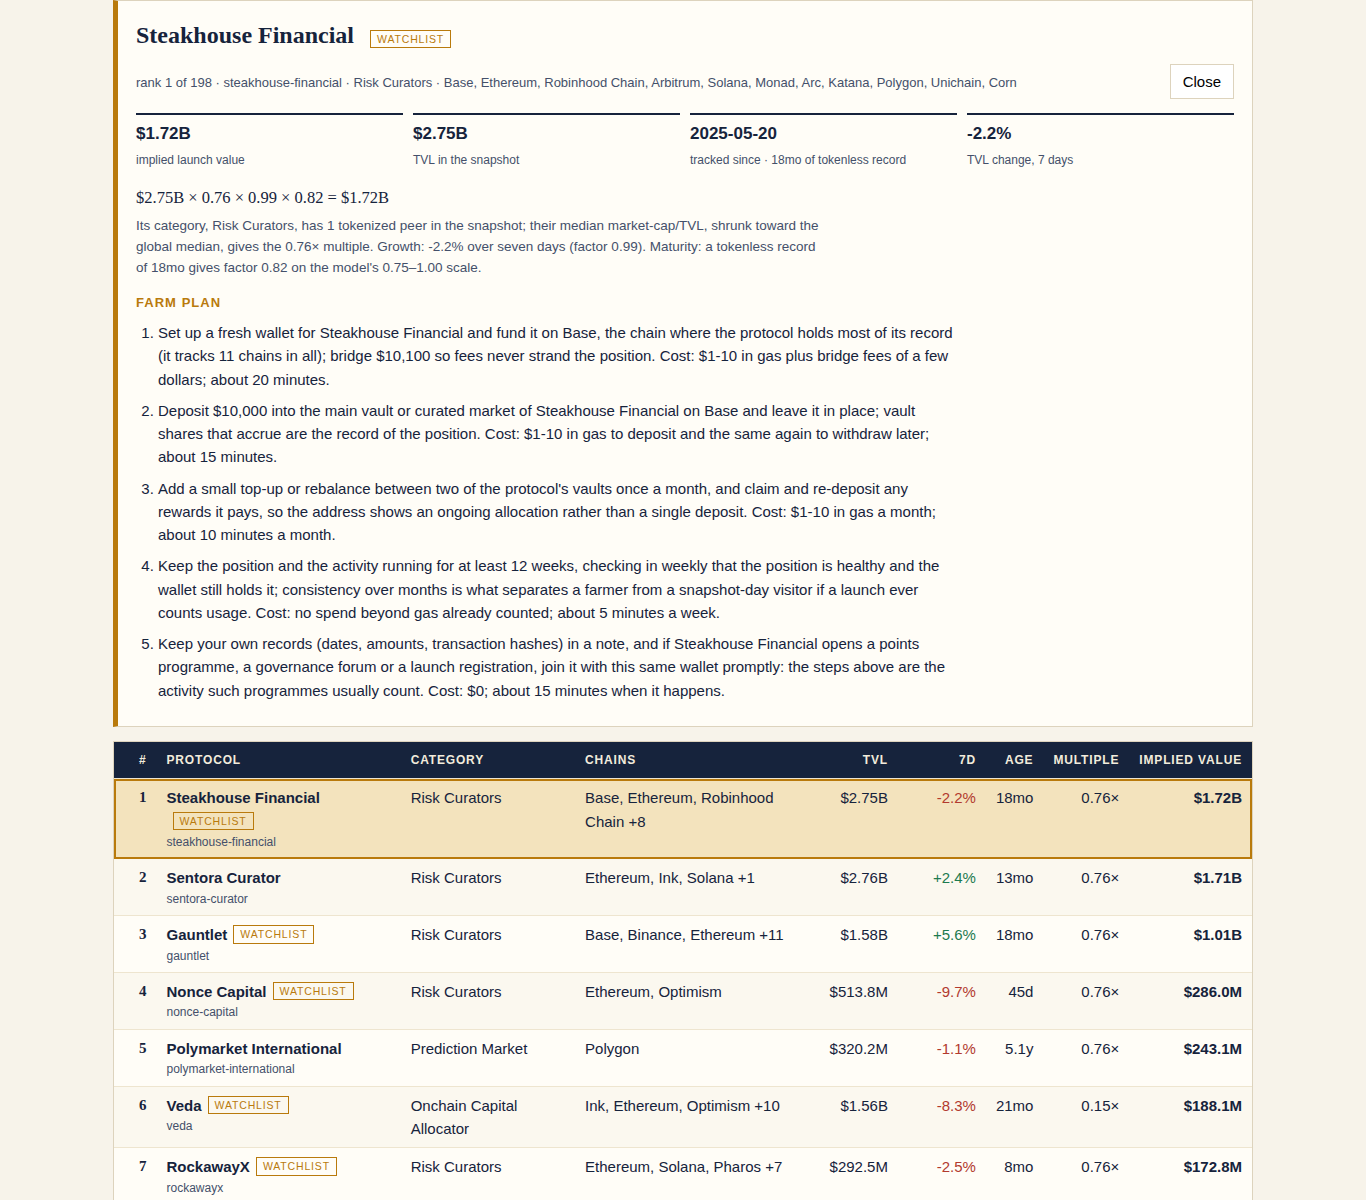
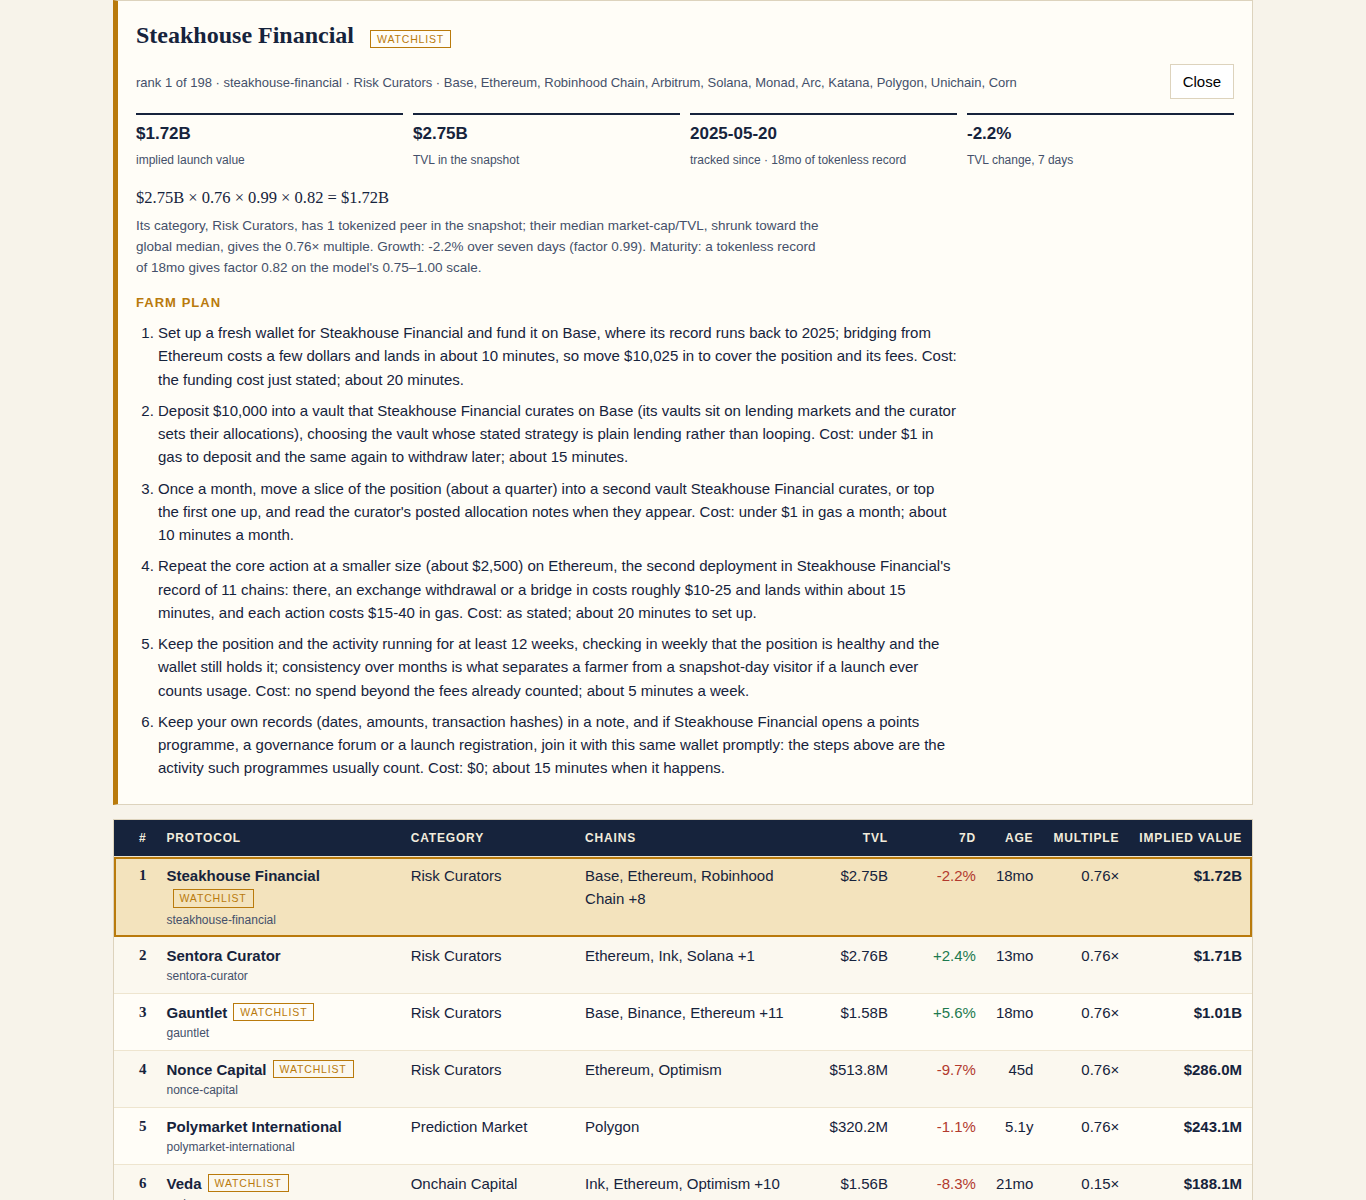
Polish farm plans: per-chain costs, product-type actions, second-chain and trend steps

Changed region(s): [[0.0615, 0.2467, 0.9224, 1.0], [0.6764, 0.9558, 0.8302, 1.0]]

diff --git a/lib/model.ts b/lib/model.ts
@@ -240,30 +240,158 @@ export function score(snapshot: Snapshot, ctx: ScoreContext, p: SnapshotProtocol
 }
 
 /** The category families the farm plans are written for. */
-export type FarmFamily = 'lending' | 'trading' | 'yield' | 'rwa' | 'other';
+export type FarmFamily =
+  | 'lending'
+  | 'cdp'
+  | 'trading'
+  | 'perps'
+  | 'yield'
+  | 'curator'
+  | 'basis'
+  | 'prediction'
+  | 'rwa'
+  | 'other';
 
 export function farmFamily(p: SnapshotProtocol): FarmFamily {
   switch (p.category) {
     case 'Lending':
-    case 'CDP':
+    case 'Uncollateralized Lending':
+    case 'Collateral Markets':
       return 'lending';
+    case 'CDP':
+    case 'CDP Manager':
+      return 'cdp';
     case 'Dexs':
-    case 'Derivatives':
-    case 'Options':
-    case 'Perpetuals':
       return 'trading';
+    case 'Derivatives':
+    case 'Perpetuals':
+    case 'Options':
+    case 'Interest Rate Derivatives':
+      return 'perps';
     case 'Yield':
     case 'Yield Aggregator':
-    case 'Risk Curators':
-    case 'Onchain Capital Allocator':
     case 'Farming':
+    case 'Farm':
     case 'Leveraged Farming':
       return 'yield';
+    case 'Risk Curators':
+    case 'Onchain Capital Allocator':
+    case 'Liquidity Manager':
+      return 'curator';
+    case 'Basis Trading':
+      return 'basis';
+    case 'Prediction Market':
+      return 'prediction';
     case 'RWA':
       return 'rwa';
     default:
       return 'other';
   }
+}
+
+/**
+ * What it costs to work on one chain: the per-action fee phrase, the funding route phrase for
+ * getting money there, and the fee buffer a wallet should carry on top of the position. The
+ * figures are the ordinary published ranges for each chain (Ethereum mainnet gas against an
+ * L2's cents, a Bitcoin confirmation hour against a Solana minute); a chain the table does not
+ * name gets the middle-of-the-road default rather than a guess dressed as a fact.
+ */
+export interface ChainProfile {
+  gas: string;
+  fund: string;
+  buffer: number;
+}
+
+const L2_PROFILE: ChainProfile = {
+  gas: 'under $1 in gas',
+  fund: 'bridging from Ethereum costs a few dollars and lands in about 10 minutes',
+  buffer: 25,
+};
+
+const CHEAP_PROFILE: ChainProfile = {
+  gas: 'a few cents in fees',
+  fund: 'bridging in or an exchange withdrawal costs a few dollars and lands within about 15 minutes',
+  buffer: 10,
+};
+
+const CHAIN_PROFILES: Record<string, ChainProfile> = {
+  Ethereum: {
+    gas: '$15-40 in gas',
+    fund: 'an exchange withdrawal or a bridge in costs roughly $10-25 and lands within about 15 minutes',
+    buffer: 100,
+  },
+  Arbitrum: L2_PROFILE,
+  Base: L2_PROFILE,
+  Optimism: L2_PROFILE,
+  'zkSync Era': L2_PROFILE,
+  Linea: L2_PROFILE,
+  Mantle: L2_PROFILE,
+  Unichain: L2_PROFILE,
+  Ink: L2_PROFILE,
+  Solana: {
+    gas: 'a few cents in fees',
+    fund: 'bridging or an exchange withdrawal costs about $1 and lands within a few minutes',
+    buffer: 10,
+  },
+  Binance: {
+    gas: '$0.10-0.50 in gas',
+    fund: 'an exchange withdrawal costs under $1 and lands within a few minutes',
+    buffer: 10,
+  },
+  Polygon: {
+    gas: 'a few cents in gas',
+    fund: 'bridging from Ethereum costs a few dollars and lands in about 10 minutes',
+    buffer: 10,
+  },
+  Avalanche: {
+    gas: '$0.10-0.60 in gas',
+    fund: 'bridging in costs a few dollars and lands within about 15 minutes',
+    buffer: 25,
+  },
+  Tron: {
+    gas: '$1-3 in fees',
+    fund: 'an exchange withdrawal costs about $1 and lands within a few minutes',
+    buffer: 10,
+  },
+  Bitcoin: {
+    gas: 'a network fee of $1-5',
+    fund: 'an exchange withdrawal lands after roughly an hour of confirmations',
+    buffer: 25,
+  },
+  'Hyperliquid L1': {
+    gas: 'a few cents in fees',
+    fund: 'bridging USDC in from Arbitrum costs under $1 and lands within a few minutes',
+    buffer: 10,
+  },
+  Sui: CHEAP_PROFILE,
+  Aptos: CHEAP_PROFILE,
+  Algorand: CHEAP_PROFILE,
+  Stellar: {
+    gas: 'a fraction of a cent in fees',
+    fund: 'an exchange withdrawal costs a fraction of a cent and lands within a minute',
+    buffer: 10,
+  },
+  Ripple: {
+    gas: 'a fraction of a cent in fees',
+    fund: 'an exchange withdrawal costs a fraction of a cent and lands within a minute',
+    buffer: 10,
+  },
+  Stacks: {
+    gas: '$0.10-1 in fees',
+    fund: 'bridging in or an exchange withdrawal costs a few dollars and lands within about 15 minutes',
+    buffer: 25,
+  },
+};
+
+/** The chain profile for a chain name from the snapshot, with the default for unnamed chains. */
+export function chainProfile(chain: string): ChainProfile {
+  return (
+    CHAIN_PROFILES[chain] ?? {
+      gas: '$1-5 in fees',
+      fund: 'bridging in or an exchange withdrawal costs a few dollars and lands within about 15 minutes',
+      buffer: 25,
+    }
+  );
 }
 
 /** A working position size for a protocol of this TVL, in whole dollars. */
@@ -280,38 +408,68 @@ function money(n: number): string {
 }
 
 /**
- * The farm plan for one protocol: five concrete steps, each with what it costs and how long it
- * takes. The steps are written from the protocol's own record: its first chain, its category
- * family and a position sized to its TVL. Nothing here names a web address or promises a
- * reward; where points are mentioned, the step says what activity would count if a programme
- * exists, because the snapshot records none.
+ * The farm plan for one protocol: six concrete steps, each with what it costs and how long it
+ * takes. The steps are written from the protocol's own record, not from a family template
+ * alone: the setup names the chain the protocol's record starts on, the year that record runs
+ * back to, and that chain's real funding route and fee range; the core action is written for
+ * the protocol's own product type (a CDP mints, a curator's vault allocates, a basis strategy
+ * hedges); a multi-chain protocol gets a step on its second named chain at that chain's fees,
+ * and the running step answers the protocol's own seven-day TVL move in the snapshot, so a
+ * growing record is farmed on a cadence and a shrinking one is not chased. Nothing here names
+ * a web address or promises a reward; where points are mentioned, the step says what activity
+ * would count if a programme exists, because the snapshot records none.
  */
 export function farmSteps(p: SnapshotProtocol, age: number): string[] {
   const chain = p.chains[0] ?? 'its main chain';
+  const secondChain = p.chains[1];
   const chainCount = p.chains.length;
   const stake = positionUsd(p);
-  const gas = chain === 'Ethereum' ? '$15-40 in gas' : '$1-10 in gas';
+  const prof = chainProfile(chain);
+  const gas = prof.gas;
   const weeks = age >= 730 ? 8 : 12;
   const family = farmFamily(p);
+  const since = p.listed_at !== null ? `, where its record runs back to ${p.listed_at.slice(0, 4)}` : '';
   const core: Record<FarmFamily, string> = {
-    lending: `Supply ${money(stake)} of a major stablecoin or ETH as collateral in ${p.name} on ${chain}, then borrow a small amount (under 30% of the collateral value) and repay it within the week, so the address shows both sides of the market. Cost: ${gas} plus a few dollars of interest; about 25 minutes.`,
-    trading: `Make ${money(stake)} of volume on ${p.name} on ${chain} across at least four separate sessions in the first week, trading liquid pairs and closing each position the same day, so the address reads as a genuine user rather than one wash trade. Cost: ${gas} plus roughly 0.1% in trading fees; about 20 minutes a session.`,
-    yield: `Deposit ${money(stake)} into the main vault or curated market of ${p.name} on ${chain} and leave it in place; vault shares that accrue are the record of the position. Cost: ${gas} to deposit and the same again to withdraw later; about 15 minutes.`,
+    lending: `Supply ${money(stake)} of a major stablecoin or ETH as collateral in ${p.name} on ${chain}, then borrow a small amount (under 30% of the collateral value) and repay it within the week, so the address shows both sides of the lending market. Cost: ${gas} plus a few dollars of interest; about 25 minutes.`,
+    cdp: `Deposit ${money(stake)} of collateral in ${p.name} on ${chain} (a major asset it accepts, such as the chain's native token, BTC or ETH) and mint its stablecoin against it at a conservative ratio (collateral worth at least twice the debt), then repay part of the mint within the first month. Cost: ${gas} to open and adjust the position; about 25 minutes.`,
+    trading: `Trade ${money(stake)} of volume on ${p.name} on ${chain} across at least four separate sessions in the first week, and leave a small position in one of its main liquidity pools, so the address shows both swaps and provided liquidity. Cost: ${gas} plus roughly 0.1-0.3% in swap and pool fees; about 20 minutes a session.`,
+    perps: `Open and close small perpetual positions on ${p.name} on ${chain} across at least four separate sessions in the first week, keeping each position under ${money(Math.round(stake / 2))} of margin and closing it the same day, so the address reads as a genuine trader rather than one wash trade. Cost: ${gas} plus trading fees and any funding paid; about 20 minutes a session.`,
+    yield: `Deposit ${money(stake)} into the main vault of ${p.name} on ${chain} and leave it in place; the vault shares that accrue are the record of the position. Cost: ${gas} to deposit and the same again to withdraw later; about 15 minutes.`,
+    curator: `Deposit ${money(stake)} into a vault that ${p.name} curates on ${chain} (its vaults sit on lending markets and the curator sets their allocations), choosing the vault whose stated strategy is plain lending rather than looping. Cost: ${gas} to deposit and the same again to withdraw later; about 15 minutes.`,
+    basis: `Deposit ${money(stake)} of stablecoins into the basis strategy of ${p.name} on ${chain} and hold the position; the strategy's own hedging is what the deposit funds, so no second leg is needed from this wallet. Cost: ${gas} to deposit and the same again to exit; about 15 minutes.`,
+    prediction: `Place small trades on the most liquid markets of ${p.name} on ${chain}, about ${money(Math.round(stake / 10))} a market across at least ten markets in the first two weeks, and let some positions settle rather than selling every one early. Cost: ${gas} plus the spreads paid; about 15 minutes a session.`,
     rwa: `Complete the onboarding and any identity check ${p.name} asks of new users, then buy ${money(stake)} of its tokenized real-world asset product on ${chain} and hold it in the same wallet. Cost: ${gas} plus any issuance spread the product states; about 40 minutes including the checks.`,
     other: `Make the core deposit or stake of ${p.name} on ${chain} with ${money(stake)}, using the product's main market rather than a side pool, and keep the position open. Cost: ${gas} in and the same again out; about 20 minutes.`,
   };
   const second: Record<FarmFamily, string> = {
     lending: `Repeat a smaller supply-and-borrow cycle every week for ${weeks} weeks, varying the amounts, and vote in any governance poll the app opens to suppliers. Cost: ${gas} a week; about 10 minutes a week.`,
-    trading: `Come back for one session a week for ${weeks} weeks, and try a second feature of ${p.name} (a limit order, a different market, or its second chain deployment) at least twice. Cost: ${gas} plus fees a session; about 20 minutes a week.`,
+    cdp: `Adjust the position once a month (top the collateral up or repay a slice as prices move) so it stays live and safely collateralised across the whole ${weeks}-week run. Cost: ${gas} a month; about 10 minutes a month.`,
+    trading: `Come back for one session a week for ${weeks} weeks, and use a second feature of ${p.name} (a limit order, a different pair, or a second pool) at least twice. Cost: ${gas} plus fees a session; about 20 minutes a week.`,
+    perps: `Come back for one session a week for ${weeks} weeks and try a second market of ${p.name} at least twice, keeping the same small size. Cost: ${gas} plus fees and funding a session; about 20 minutes a week.`,
     yield: `Add a small top-up or rebalance between two of the protocol's vaults once a month, and claim and re-deposit any rewards it pays, so the address shows an ongoing allocation rather than a single deposit. Cost: ${gas} a month; about 10 minutes a month.`,
+    curator: `Once a month, move a slice of the position (about a quarter) into a second vault ${p.name} curates, or top the first one up, and read the curator's posted allocation notes when they appear. Cost: ${gas} a month; about 10 minutes a month.`,
+    basis: `Top the position up by about a tenth once a month and check the strategy's reported funding rate when it posts, keeping the deposit in place across the whole ${weeks}-week run. Cost: ${gas} a month; about 10 minutes a month.`,
+    prediction: `Trade one or two new markets a week for ${weeks} weeks, favouring markets that resolve within the month, so the record builds steadily instead of in one burst. Cost: ${gas} plus spreads a week; about 15 minutes a week.`,
     rwa: `Add a second, smaller purchase in a later month and read the product's monthly report or attestation when it posts, keeping the holding across at least one full reporting cycle. Cost: ${gas} plus the spread on ${money(Math.round(stake / 4))}; about 15 minutes a month.`,
-    other: `Use one further feature of ${p.name} each month (a second market, a referral-free direct action, or its deployment on another of its ${chainCount} chains) so the address is a user of the product, not a single transaction. Cost: ${gas} a month; about 15 minutes a month.`,
+    other: `Use one further feature of ${p.name} each month (a second market or a second product line, or its governance if it opens one) so the address is a user of the product, not a single transaction. Cost: ${gas} a month; about 15 minutes a month.`,
   };
+  const deepen =
+    secondChain !== undefined
+      ? `Repeat the core action at a smaller size (about ${money(Math.round(stake / 4))}) on ${secondChain}, the second deployment in ${p.name}'s record${chainCount > 2 ? ` of ${chainCount} chains` : ''}: there, ${chainProfile(secondChain).fund}, and each action costs ${chainProfile(secondChain).gas}. Cost: as stated; about 20 minutes to set up.`
+      : `Deepen the same-chain record: run a second, smaller position (about ${money(Math.round(stake / 4))}) in a different market or vault of ${p.name} on ${chain}, so the address is not riding on a single pool. Cost: ${gas} in and the same again out; about 15 minutes.`;
+  const g7 = p.change_7d;
+  const trend =
+    g7 !== null && g7 >= 5
+      ? `the snapshot's last week had its TVL up ${Math.round(g7)}%, so keep the weekly cadence while it is growing rather than front-running it in one day`
+      : g7 !== null && g7 <= -15
+        ? `its TVL fell ${Math.round(-g7)}% in the snapshot's last week, so hold the planned size and do not add beyond it until the record steadies`
+        : 'consistency over months is what separates a farmer from a snapshot-day visitor if a launch ever counts usage';
   return [
-    `Set up a fresh wallet for ${p.name} and fund it on ${chain}, the chain where the protocol holds most of its record${chainCount > 1 ? ` (it tracks ${chainCount} chains in all)` : ''}; bridge ${money(stake + 100)} so fees never strand the position. Cost: ${gas} plus bridge fees of a few dollars; about 20 minutes.`,
+    `Set up a fresh wallet for ${p.name} and fund it on ${chain}${since}; ${prof.fund}, so move ${money(stake + prof.buffer)} in to cover the position and its fees. Cost: the funding cost just stated; about 20 minutes.`,
     core[family],
     second[family],
-    `Keep the position and the activity running for at least ${weeks} weeks, checking in weekly that the position is healthy and the wallet still holds it; consistency over months is what separates a farmer from a snapshot-day visitor if a launch ever counts usage. Cost: no spend beyond gas already counted; about 5 minutes a week.`,
+    deepen,
+    `Keep the position and the activity running for at least ${weeks} weeks, checking in weekly that the position is healthy and the wallet still holds it; ${trend}. Cost: no spend beyond the fees already counted; about 5 minutes a week.`,
     `Keep your own records (dates, amounts, transaction hashes) in a note, and if ${p.name} opens a points programme, a governance forum or a launch registration, join it with this same wallet promptly: the steps above are the activity such programmes usually count. Cost: $0; about 15 minutes when it happens.`,
   ];
 }
